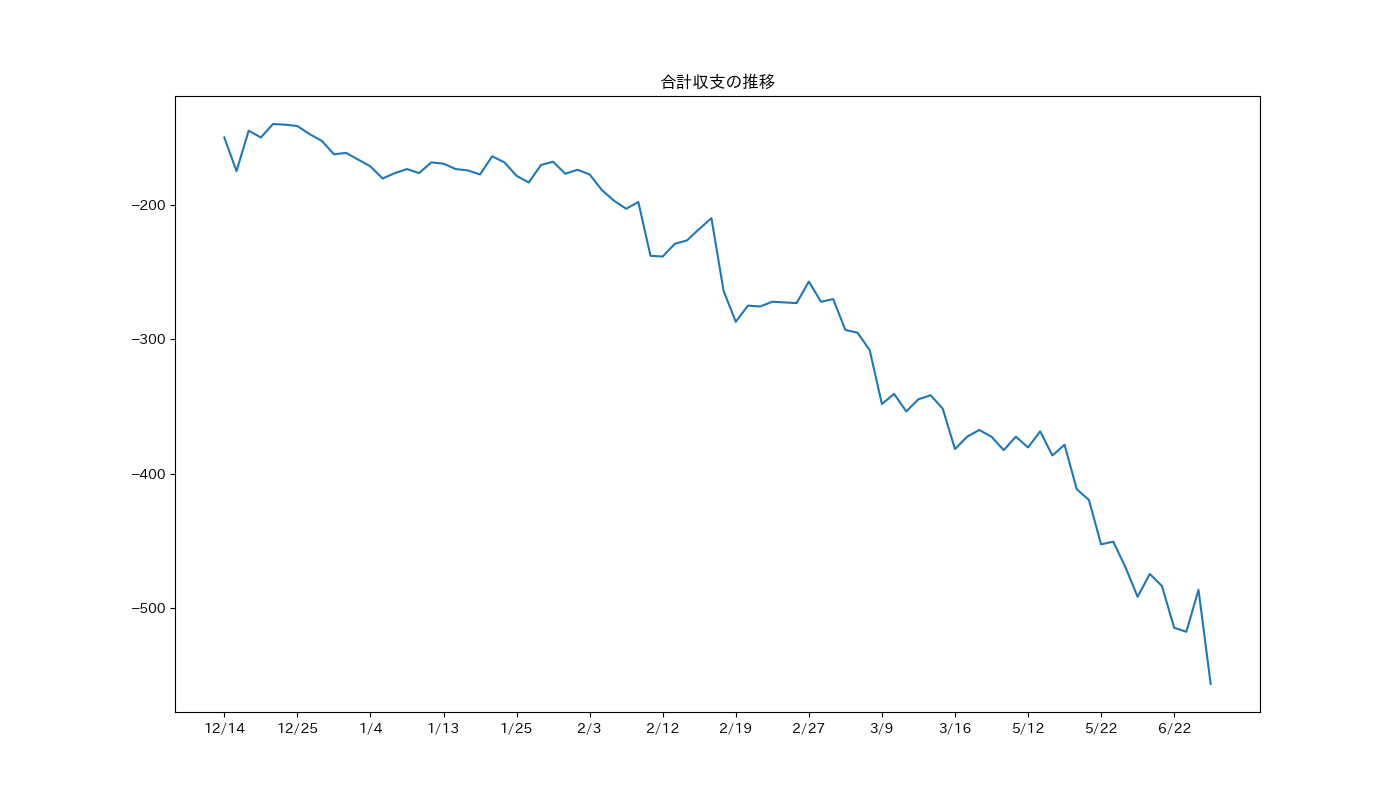
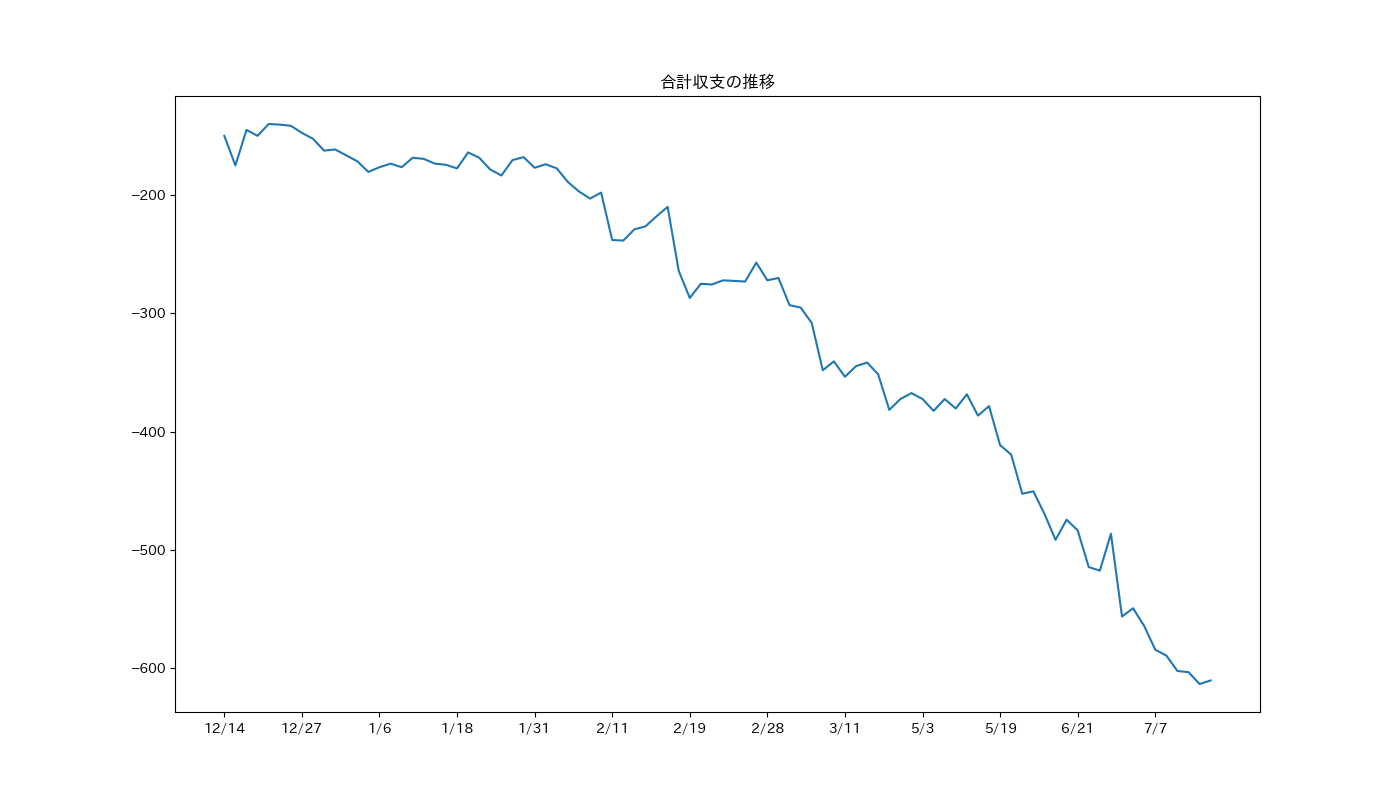
final commit

diff --git a/days.html b/days.html
@@ -18,7 +18,110 @@
             </header>
             <div class="contents">
                 <div class="days">
+                    <!--2024/8-->
+                    <table width="1200" border="3">
+                        <thead>
+                            <tr>
+                                <th>日付</th>
+                                <th>機種</th>
+                                <th>投資額/回収額</th>
+                            </tr>
+                        </thead>
+                        <tbody>
+                            <tr>
+                                <td>8/8</td>
+                                <td>ジャグラー</td>
+                                <td>10k/0k</td>
+                            </tr>
+                        </tbody>
+                        <tbody>
+                            <tr>
+                                <td rowspan="3">8/9</td>
+                                <td>海物語</td>
+                                <td>1k/2k</td>
+                            </tr>
+                            <tr>
+                                <td>ジャグラー</td>
+                                <td>5k/6k</td>
+                            </tr>
+                            <tr>
+                                <td>ヴァルヴレイヴ</td>
+                                <td>5k/6k</td>
+                            </tr>
+                        </tbody>
+                        <tbody>
+                            <tr>
+                                <td>8/13</td>
+                                <td>ジャグラー</td>
+                                <td>23k/0k</td>
+                            </tr>
+                            <tr>
+                                <td>ヴァルヴレイヴ</td>
+                                <td>5k/0k</td>
+                            </tr>
+                        </tbody>
+                    </table>
                     <!--2024/7-->
+                    <table width="1200" border="3">
+                        <caption>2024年7月の収支</caption>
+                        <thead>
+                            <tr>
+                                <th>日付</th>
+                                <th>機種</th>
+                                <th>投資額/回収額</th>
+                            </tr>
+                        </thead>
+                        <tbody>
+                            <tr>
+                                <td>7/4</td>
+                                <td>ジャグラー</td>
+                                <td>5k/12k</td>
+                            </tr>
+                        </tbody>
+                        <tbody>
+                            <tr>
+                                <td>7/5</td>
+                                <td>ジャグラー</td>
+                                <td>15k/0k</td>
+                            </tr>
+                        </tbody>
+                        <tbody>
+                            <tr>
+                                <td rowspan="2">7/7</td>
+                                <td>ジャグラー</td>
+                                <td>10k/5k</td>
+                            </tr>
+                            <tr>
+                                <td>ヴァルヴレイヴ</td>
+                                <td>50k/35k</td>
+                            </tr>
+                        </tbody>
+                        <tbody>
+                            <tr>
+                                <td>7/15</td>
+                                <td>ジャグラー</td>
+                                <td>5k/0k</td>
+                            </tr>
+                        </tbody>
+                        <tbody>
+                            <tr>
+                                <td rowspan="2">7/19</td>
+                                <td>ジャグラー</td>
+                                <td>10k/0k</td>
+                            </tr>
+                            <tr>
+                                <td>ヴァルヴレイヴ</td>
+                                <td>3k/0k</td>
+                            </tr>
+                        </tbody>
+                        <tbody>
+                            <tr>
+                                <td>7/30</td>
+                                <td>海物語</td>
+                                <td>1k/0k</td>
+                            </tr>
+                        </tbody>
+                    </table>
                     <!--2024/6-->
                     <table width="1200" border="3">
                         <caption>2024年6月の収支</caption>

diff --git a/diary.html b/diary.html
@@ -18,6 +18,21 @@
             </header>
             <div class="contents">
                 <div class="diary">
+                    <div class="2024/7">
+                        <h2>2024/7</h2>
+                        <div class="section">
+                            <h3>7/7</h3>
+                            <p>
+                                今日は1年に一回の七夕!激アツの日!! <br>
+                                いつものお店行ったら600人くらい？人いました。 <br>
+                                実は!めっちゃ運良くて抽選はその中でも31番を取ることが出来ました。 <br>
+                                前日から今日はヴァルヴレイヴを打つと決めていたので即座りました。途中から友達も来て、一緒に終日打ちました。 <br>
+                                結果はどちらも2万負け... <br>
+                                ですが、僕は途中まで5万負けており、そこから一気にプラマイゼロまで捲った時はめちゃくちゃ興奮しました。 <br>
+                                結果は負けちゃったけど、楽しい1日になりました!!パチ終わりに友達とお寿司も行けたので満足です!
+                            </p>
+                        </div>
+                    </div>
                     <div class="2024/6">
                         <h2>2024/6</h2>
                         <div class="section">

diff --git a/temp.html b/temp.html
@@ -1,0 +1,72 @@
+<table border="1" class="dataframe">
+  <thead>
+    <tr style="text-align: right;">
+      <th></th>
+      <th>投資額</th>
+      <th>回収額</th>
+      <th>収支</th>
+    </tr>
+    <tr>
+      <th>機種</th>
+      <th></th>
+      <th></th>
+      <th></th>
+    </tr>
+  </thead>
+  <tbody>
+    <tr>
+      <th>インデックス</th>
+      <td>1.0</td>
+      <td>0.0</td>
+      <td>-1.0</td>
+    </tr>
+    <tr>
+      <th>エヴァ</th>
+      <td>28.0</td>
+      <td>0.0</td>
+      <td>-28.0</td>
+    </tr>
+    <tr>
+      <th>カバネリ</th>
+      <td>28.0</td>
+      <td>0.0</td>
+      <td>-28.0</td>
+    </tr>
+    <tr>
+      <th>ジャグラー</th>
+      <td>899.5</td>
+      <td>653.1</td>
+      <td>-246.4</td>
+    </tr>
+    <tr>
+      <th>リゼロ強欲</th>
+      <td>130.0</td>
+      <td>0.0</td>
+      <td>-130.0</td>
+    </tr>
+    <tr>
+      <th>リゼロ鬼がかり</th>
+      <td>146.0</td>
+      <td>47.0</td>
+      <td>-99.0</td>
+    </tr>
+    <tr>
+      <th>ヴァルヴレイヴ</th>
+      <td>101.0</td>
+      <td>105.2</td>
+      <td>4.2</td>
+    </tr>
+    <tr>
+      <th>南国育ち</th>
+      <td>108.0</td>
+      <td>26.0</td>
+      <td>-82.0</td>
+    </tr>
+    <tr>
+      <th>海物語</th>
+      <td>2.0</td>
+      <td>2.0</td>
+      <td>0.0</td>
+    </tr>
+  </tbody>
+</table>

diff --git a/syukei.py b/syukei.py
@@ -1,5 +1,7 @@
 from bs4 import BeautifulSoup
 import pandas as pd
+import matplotlib.pyplot as plt
+import japanize_matplotlib
 
 def is_date(text):
     flag = True
@@ -41,7 +43,8 @@ for day in new_day_list:
             group_list.append([name, float(pay), float(payback)])
 days = pd.DataFrame(data=group_list, columns=["機種", "投資額", "回収額"])
 group = days.groupby("機種").sum()
-group["収支"] = group["回収額"] - group["投資額"]
+# group["収支"] = group["回収額"] - group["投資額"]
+group["収支"] = [round(kaisyu - toushi, 1) for kaisyu, toushi in zip(group["回収額"], group["投資額"])]
 days = group
 
 # 機種情報を削除し、日毎収支をまとめる
@@ -77,3 +80,15 @@ print("機種ごとに集計\n")
 print(days)
 print("\n月ごとに集計\n")
 print(month.groupby("月").sum())
+
+fig = plt.figure(figsize=(12, 4))
+ax = fig.add_subplot(1,1,1)
+ax.axis("off")
+ax.table(
+    cellText = days.values,
+    rowLabels= list(days.groupby("機種").groups.keys()),
+    colLabels = days.columns,
+    loc = "center"
+)
+plt.savefig("sample.png")
+plt.show()
